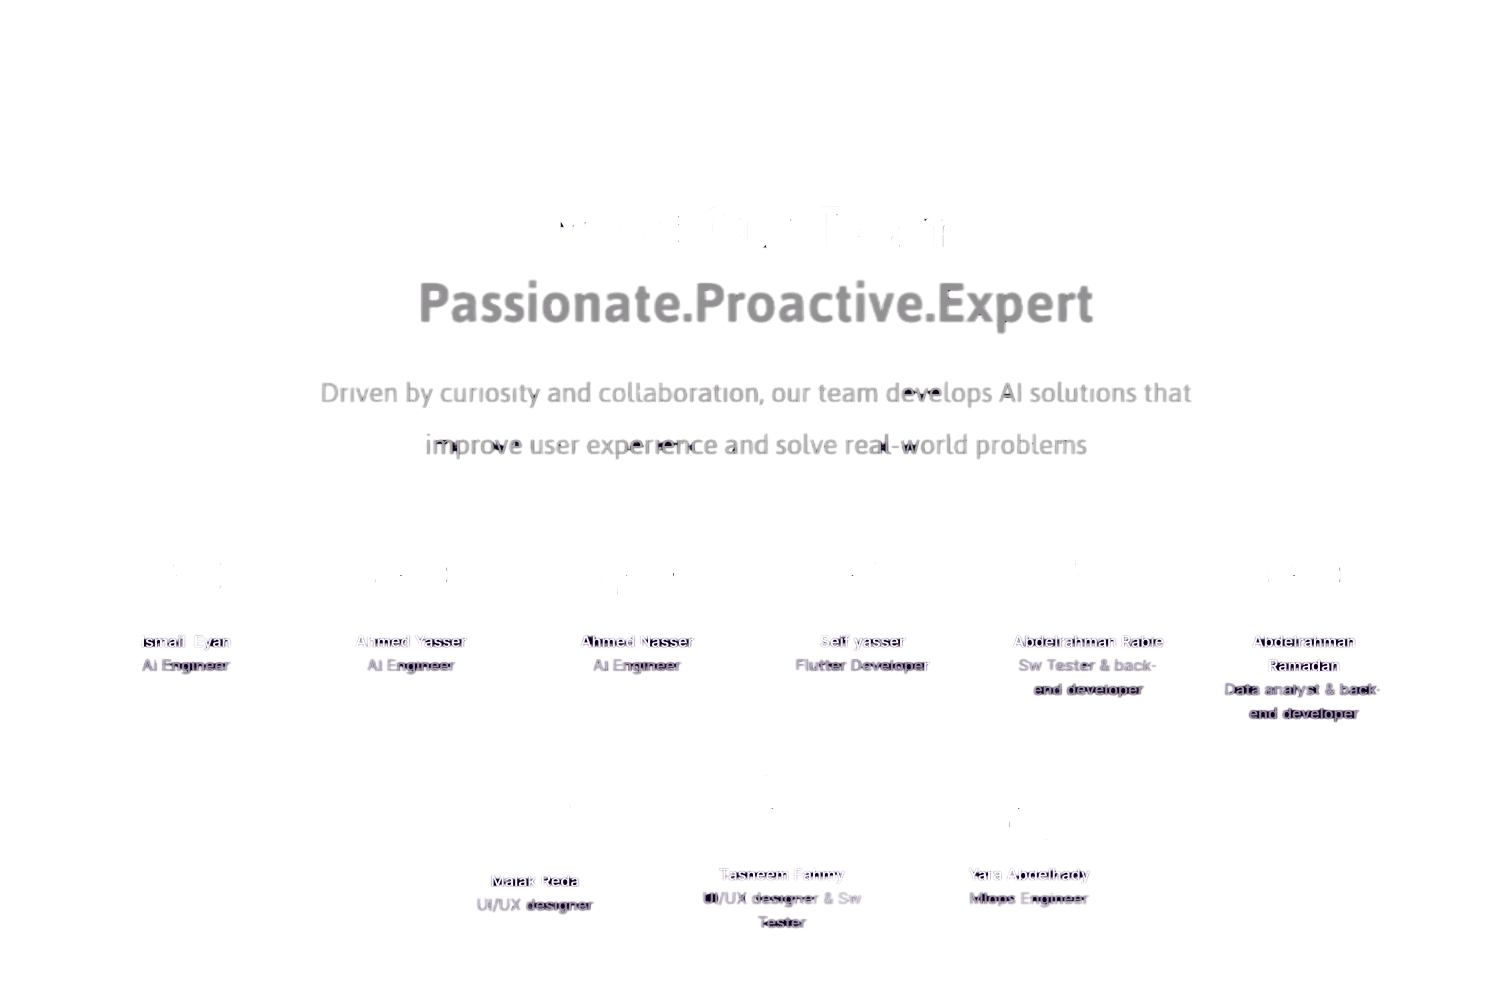
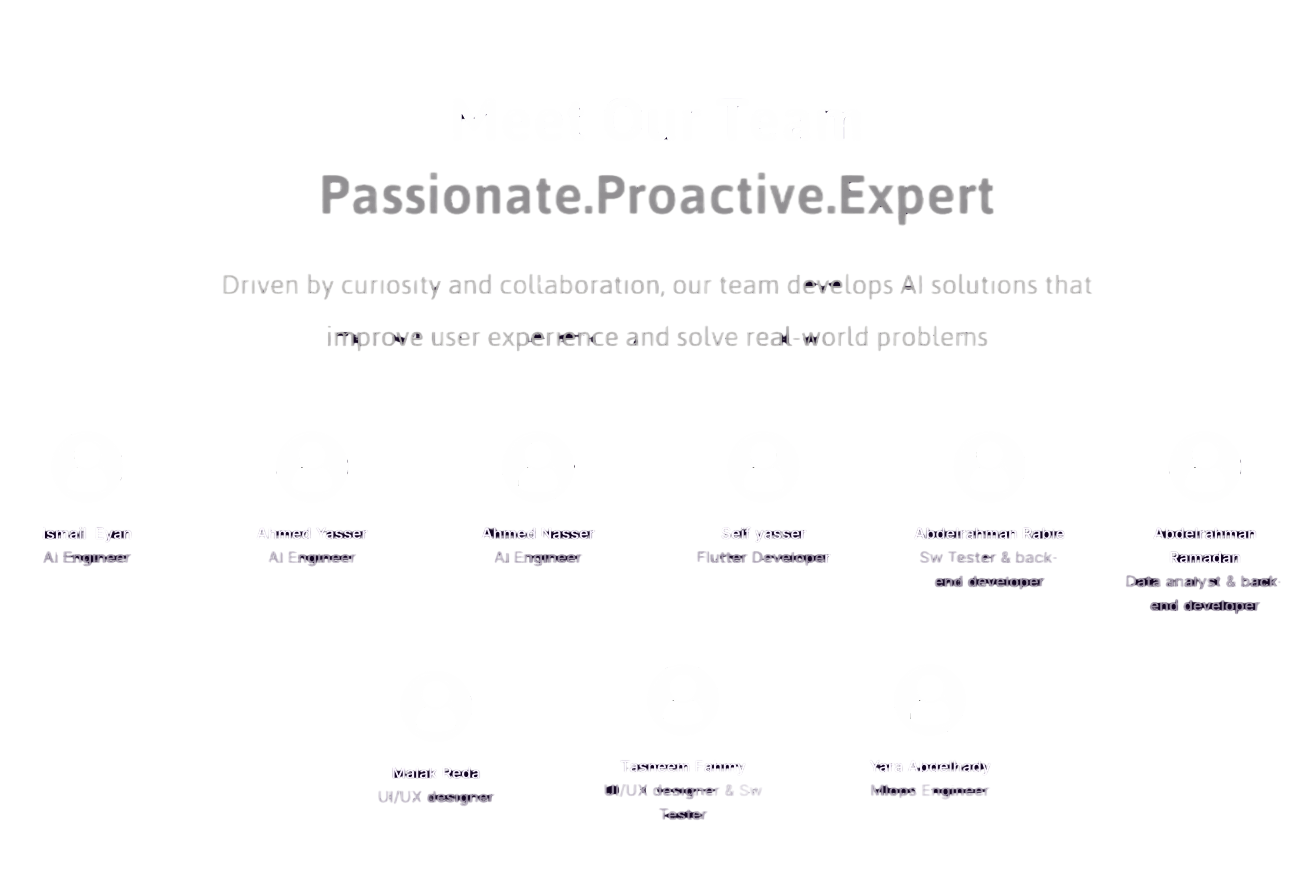
finish all cards except the last

diff --git a/lib/widgets/SecondCard/SecondCardMobile.dart b/lib/widgets/SecondCard/SecondCardMobile.dart
@@ -41,10 +41,10 @@ SizedBox(height: 20,),
 
    Text('Arabic Customer Service Chatbot',style: TextStyle(fontSize: 16,color: Colors.white,fontWeight: FontWeight.bold),),
 
-SizedBox(height: 50,),
+SizedBox(height: 35,),
 
              Padding(
-               padding: const EdgeInsets.symmetric(horizontal: 40),
+               padding: const EdgeInsets.only(left: 20, right: 20),
                child: Row(
                 mainAxisAlignment: MainAxisAlignment.spaceBetween,
                 children: [
@@ -53,27 +53,27 @@ SizedBox(height: 50,),
                  children:  [
                    PhotoTextRow(
                      text: 'Company-specific training.',
-                     iconPath: "flash-dynamic-gradient.png",
+                     iconPath: "assets/flash-dynamic-gradient.png",
                      
                    ),
                    SizedBox(height: 20),
                     PhotoTextRow(
                      text: '24/7 Automated Support.',
-                     iconPath: "chat-text-dynamic-gradient.png",
+                     iconPath: "assets/chat-text-dynamic-gradient.png",
                   
                    ),
                    SizedBox(height: 20),
                     PhotoTextRow(
                      text: 'Scalable and Secure.',
-                     iconPath: "sheild-dynamic-gradient.png",
+                     iconPath: "assets/sheild-dynamic-gradient.png",
                     
                    ),
                  ],
                ),
                
                 SizedBox(
-                    width: 150,
-                    child: Image.asset('Rectanglemobilepic.png')),
+                    width: 100,
+                    child: Image.asset('assets/Rectanglemobilepic.png')),
                 ],
                ),
              ),

diff --git a/lib/widgets/SecondCard/SecondCardDesktop.dart b/lib/widgets/SecondCard/SecondCardDesktop.dart
@@ -98,21 +98,21 @@ double textSize =  sizingInformation.deviceScreenType == DeviceScreenType.mobile
   children:  [
     PhotoTextRow(
       text: 'Company-specific training.',
-      iconPath: "flash-dynamic-gradient.png",
+      iconPath: "assets/flash-dynamic-gradient.png",
        PlaceholderSize: PlaceholderSize,
        photoIConSize: 70,
     ),
     SizedBox(height: 20),
      PhotoTextRow(
       text: '24/7 Automated Support.',
-      iconPath: "chat-text-dynamic-gradient.png",
+      iconPath: "assets/chat-text-dynamic-gradient.png",
      PlaceholderSize: PlaceholderSize,
      photoIConSize: 70,
     ),
     SizedBox(height: 20),
      PhotoTextRow(
       text: 'Scalable and Secure.',
-      iconPath: "sheild-dynamic-gradient.png",
+      iconPath: "assets/sheild-dynamic-gradient.png",
      PlaceholderSize: PlaceholderSize,
      photoIConSize: 70,
     ),
@@ -121,7 +121,7 @@ double textSize =  sizingInformation.deviceScreenType == DeviceScreenType.mobile
 
                   SizedBox(
                     width: 400,
-                    child: Image.asset('Rectanglemobilepic.png')),
+                    child: Image.asset('assets/Rectanglemobilepic.png')),
                  
                 ],
                ),

diff --git a/lib/widgets/firstCard/FirstCardMobile.dart b/lib/widgets/firstCard/FirstCardMobile.dart
@@ -33,7 +33,7 @@ class Firstpagemobile extends StatelessWidget {
               ),
                    const SizedBox(height: 10),
               Image.asset(
-                  'firstpagephoto.png',
+                  'assets/firstpagephoto.png',
                   fit: BoxFit.contain,
                 ),
  const SizedBox(height: 25),
@@ -43,7 +43,7 @@ class Firstpagemobile extends StatelessWidget {
                   backgroundColor: const Color(0xFFE0E0E0),
                   foregroundColor: const Color(0xFF2A1B4D),
                   width: 280,
-                  height:50 ,
+                  height:100 ,
                   borderRadius: 10,
                 ),
                
@@ -56,7 +56,7 @@ class Firstpagemobile extends StatelessWidget {
                   borderColor: Colors.white,
                   elevation: 0,
                   width: 280,
-                  height:50 ,
+                  height:100 ,
                   borderRadius: 12,
                 ),
         ],

diff --git a/lib/widgets/SecondCard/TextPlaceholder.dart b/lib/widgets/SecondCard/TextPlaceholder.dart
@@ -38,16 +38,27 @@ class Textplaceholder extends StatelessWidget {
           ),
         ),
         const SizedBox(height: 20),
-        GradientText(
-          text: "We deliver measurable business outcomes.",
-          style: TextStyle(
-            fontWeight: FontWeight.w700,
-            fontSize: titleSize,
-          ),
-          gradient: const LinearGradient(
-            colors: [Colors.blue, Colors.purple, Colors.red],
-          ),
-        ),
+        FittedBox(
+  fit: BoxFit.scaleDown, 
+  child: GradientText(
+    text: "We deliver measurable business outcomes.",
+    style: TextStyle(
+      fontWeight: FontWeight.w700,
+      fontSize: titleSize, 
+    ),
+    gradient: const LinearGradient(
+      begin: Alignment.topLeft,
+      end: Alignment.bottomRight,
+      colors: [
+        Color(0xFF2196F3), // Blue
+        Color(0xFF9C27B0), // Purple
+        Color(0xFFF44336), // Red
+      ],
+      stops: [0.1, 0.5, 0.9],
+    ),
+  ),
+)
+
       ],
     );
   }

diff --git a/lib/views/home.dart b/lib/views/home.dart
@@ -95,7 +95,7 @@ class _HomeState extends State<Home> {
           left: 0,
           right: 0,
           child: Image.asset(
-            'firstbackgropund.jpg',
+            'assets/firstbackgropund.jpg',
             fit: BoxFit.cover,
             height: 600,
             color: Colors.black.withOpacity(0.3),
@@ -114,7 +114,7 @@ class _HomeState extends State<Home> {
             padding: const EdgeInsets.only(top: 100), // مسافة عشان ما يخشش تحت الـ Navbar
             children: const [
               FirstCard(),
-              SizedBox(height: 150),
+              SizedBox(height: 65),
               Secondcard(),
              // SizedBox(height: 150),
               Thirdcard(),

diff --git a/lib/widgets/button.dart b/lib/widgets/button.dart
@@ -39,14 +39,18 @@ class CustomButton extends StatelessWidget {
         ),
         padding: const EdgeInsets.symmetric(horizontal: 24, vertical: 16),
       ),
-      child: Text(
-        text,
-        style: TextStyle(
-          fontWeight: FontWeight.bold,
-          fontSize: 22,
-          color: foregroundColor,
-        ),
-      ),
+      child: FittedBox(
+  fit: BoxFit.scaleDown,
+  child: Text(
+    text,
+    style: TextStyle(
+      fontWeight: FontWeight.bold,
+      fontSize: 20, 
+      color: foregroundColor,
+    ),
+  ),
+)
+
     );
   }
 }

diff --git a/lib/widgets/SecondCard/CustomNumberContainer.dart b/lib/widgets/SecondCard/CustomNumberContainer.dart
@@ -36,7 +36,7 @@ class Customnumbercontainer extends StatelessWidget {
             // Animated Counter
             TweenAnimationBuilder<double>(
               tween: Tween(begin: 0, end: number), 
-              duration: const Duration(seconds: 2),
+              duration: const Duration(seconds: 4),
               builder: (context, value, child) {
                 return ShaderMask(
                   shaderCallback: (Rect bounds) {

diff --git a/lib/widgets/thirdCard/thirdCard.dart b/lib/widgets/thirdCard/thirdCard.dart
@@ -9,8 +9,8 @@ class Thirdcard extends StatelessWidget {
   @override
   Widget build(BuildContext context) {
     return Padding(
-      padding: const EdgeInsets.all(20),
-      child: Image.asset('our-team.png'),
+      padding: const EdgeInsets.all(10),
+      child: Image.asset('assets/our-team.png'),
     );
   }
 }

diff --git a/lib/widgets/firstCard/FirstCardDesktop.dart b/lib/widgets/firstCard/FirstCardDesktop.dart
@@ -103,7 +103,7 @@ class FirstPageDesktop extends StatelessWidget {
                       ? 300
                       : 350,
               child: Image.asset(
-                'firstpagephoto.png',
+                'assets/firstpagephoto.png',
                 fit: BoxFit.contain,
               ),
             ),

diff --git a/lib/main.dart b/lib/main.dart
@@ -15,6 +15,7 @@ class MyApp extends StatelessWidget {
 
   Widget build(BuildContext context) {
     return MaterialApp(
+       title: 'AiAnces Web',
         theme: ThemeData(
         textTheme: GoogleFonts.interTextTheme(
           Theme.of(context).textTheme,

diff --git a/lib/widgets/FourthCard/FourthCard.dart b/lib/widgets/FourthCard/FourthCard.dart
@@ -7,7 +7,7 @@ class FourthCard extends StatelessWidget {
   Widget build(BuildContext context) {
     return Padding(
       padding: const EdgeInsets.all(20),
-      child: Image.asset('why.png'),
+      child: Image.asset('assets/why.png'),
     );
   }
 }

diff --git a/lib/widgets/NavigationBar/NavBarLogo.dart b/lib/widgets/NavigationBar/NavBarLogo.dart
@@ -8,7 +8,7 @@ class NavBarLogo extends StatelessWidget {
     return SizedBox(
       height: 80,
       width: 120,
-      child: Image.asset('AiAnces.png'),
+      child: Image.asset('assets/AiAnces.png'),
     );
   }
 }
